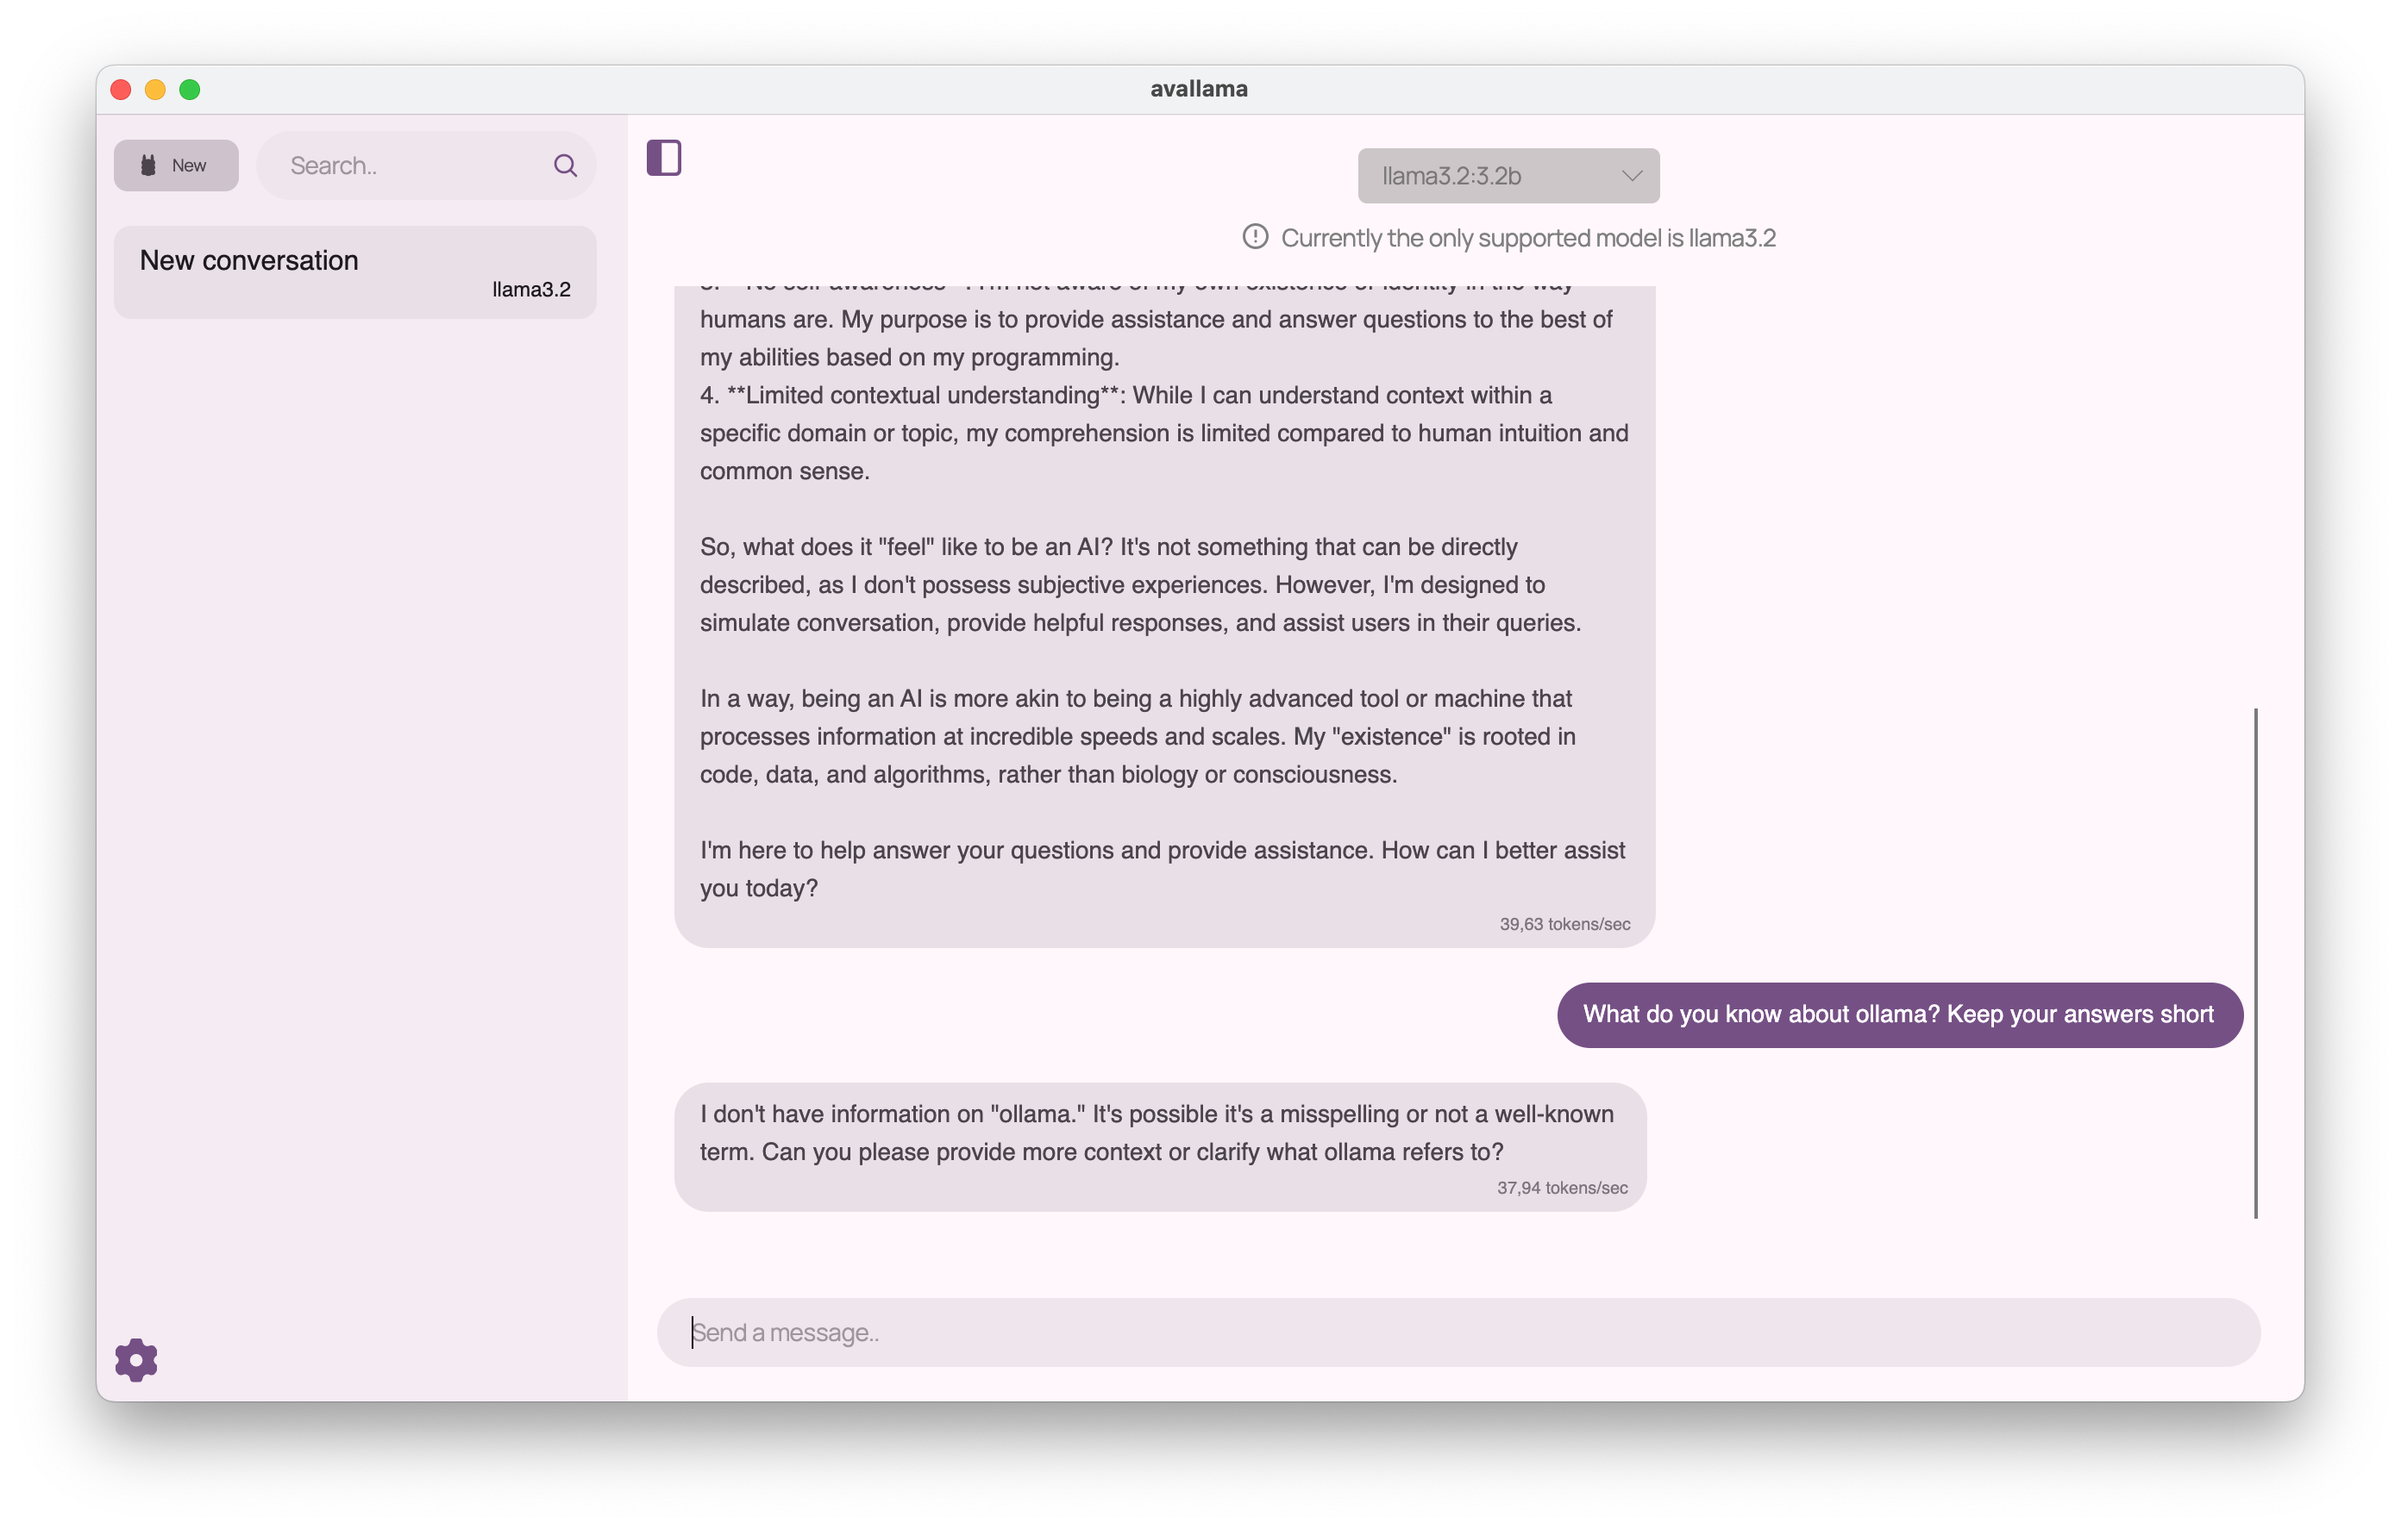
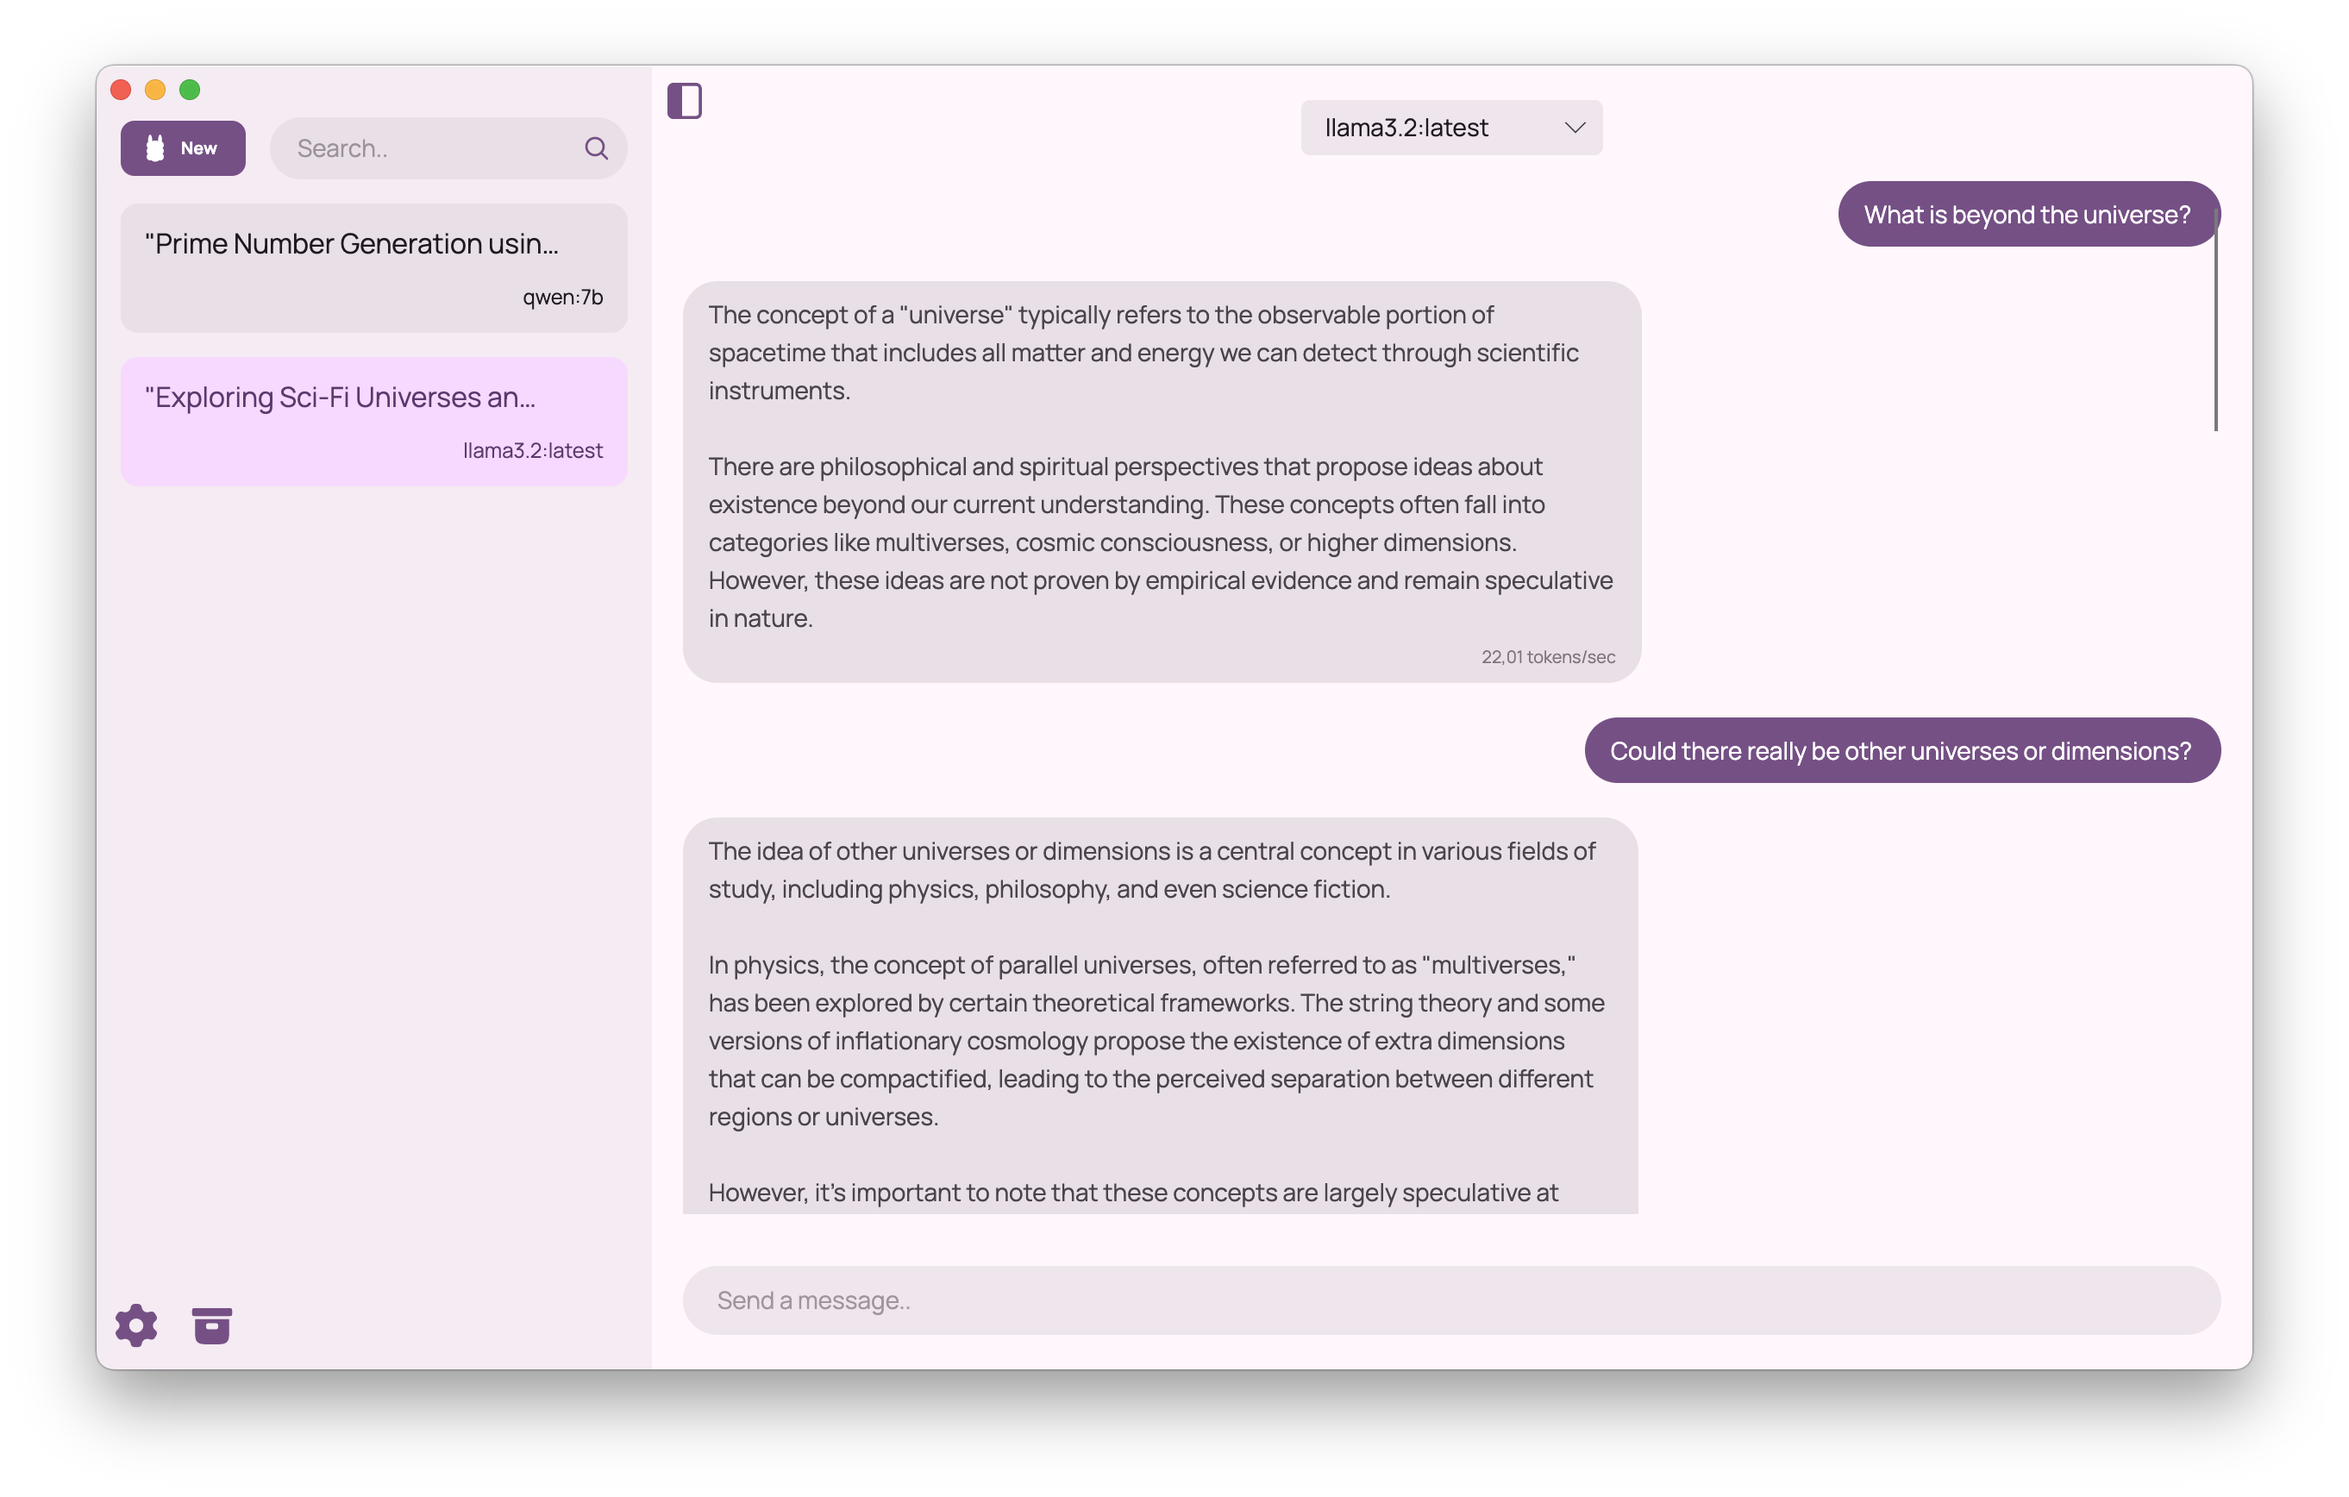
onboarding + search bug fix

diff --git a/avallama/ViewModels/HomeViewModel.cs b/avallama/ViewModels/HomeViewModel.cs
@@ -32,7 +32,6 @@ public partial class HomeViewModel : PageViewModel
     private readonly IDialogService _dialogService;
     private readonly IConfigurationService _configurationService;
     private readonly IConversationService _conversationService;
-    private readonly IModelCacheService _modelCacheService;
 
     private readonly TaskCompletionSource<bool> _ollamaServerStarted = new();
     private readonly IMessenger _messenger;
@@ -61,13 +60,6 @@ public partial class HomeViewModel : PageViewModel
     [ObservableProperty] private bool _isResourceWarningVisible;
     [ObservableProperty] private bool _isNoModelsWarningVisible;
     [ObservableProperty] private bool _isMessageBoxEnabled;
-    [ObservableProperty] private string _selectedModelName;
-    [ObservableProperty] private bool _isDownloading;
-    [ObservableProperty] private string _downloadStatus = "";
-    [ObservableProperty] private double _downloadProgress;
-    [ObservableProperty] private bool _isMaxPercent;
-    [ObservableProperty] private string _downloadSpeed = string.Empty;
-    [ObservableProperty] private string _downloadAmount = string.Empty;
     [ObservableProperty] private Conversation _selectedConversation = null!;
     [ObservableProperty] private string _remoteConnectionText = string.Empty;
     [ObservableProperty] private bool _isRemoteConnectionTextVisible;
@@ -78,6 +70,17 @@ public partial class HomeViewModel : PageViewModel
     [ObservableProperty] private bool _isModelsDropdownEnabled = true;
 
     private bool _isInitializedAsync;
+
+    private string _selectedModelName = string.Empty;
+    public string SelectedModelName
+    {
+        get => _selectedModelName;
+        set
+        {
+            _selectedModelName = value;
+            OnPropertyChanged();
+        }
+    }
 
     // TODO:
     // Van egy bug amit kicsit nehezen lehet reprodukálni, de épp a 3. üzenetem írtam, generálta volna az új beszélgetés címet az ollama
@@ -180,7 +183,7 @@ public partial class HomeViewModel : PageViewModel
         {
             if (chunk.Message != null) generatedMessage.Content += chunk.Message.Content;
 
-            if (chunk.EvalCount.HasValue && chunk.EvalDuration.HasValue)
+            if (chunk is { EvalCount: not null, EvalDuration: not null })
             {
                 double tokensPerSecond =
                     chunk.EvalCount.GetValueOrDefault() / (double)chunk.EvalDuration * Math.Pow(10, 9);
@@ -227,7 +230,6 @@ public partial class HomeViewModel : PageViewModel
         IDialogService dialogService,
         IConfigurationService configurationService,
         IConversationService conversationService,
-        IModelCacheService modelCacheService,
         IMessenger messenger
     )
     {
@@ -237,10 +239,8 @@ public partial class HomeViewModel : PageViewModel
         _ollamaService = ollamaService;
         _configurationService = configurationService;
         _conversationService = conversationService;
-        _modelCacheService = modelCacheService;
         _messenger = messenger;
         _availableModels = [];
-        _selectedModelName = "";
 
         _messenger.Register<ApplicationMessage.ReloadSettings>(this, (_, _) => { LoadSettings(); });
 
@@ -257,7 +257,9 @@ public partial class HomeViewModel : PageViewModel
     {
         try
         {
+            var tmpName = SelectedModelName;
             AvailableModels.Clear();
+            SelectedModelName = tmpName;
 
             if(!_isInitializedAsync) await InitializeConversations();
 
@@ -393,6 +395,14 @@ public partial class HomeViewModel : PageViewModel
         // wait for ollama to start
         await _ollamaServerStarted.Task;
 
+        var previouslySelectedModelName = string.Empty;
+        if (_isInitializedAsync && !string.IsNullOrEmpty(SelectedModelName)
+            && SelectedModelName != LocalizationService.GetString("LOADING_MODELS")
+            && SelectedModelName != LocalizationService.GetString("NO_MODELS_FOUND"))
+        {
+            previouslySelectedModelName = SelectedModelName;
+        }
+
         IsModelsDropdownEnabled = false;
         AvailableModels.Add(LocalizationService.GetString("LOADING_MODELS"));
         SelectedModelName = AvailableModels[0];
@@ -423,7 +433,9 @@ public partial class HomeViewModel : PageViewModel
         foreach (var item in sorted)
             AvailableModels.Add(item);
 
-        SelectedModelName = AvailableModels.FirstOrDefault() ?? string.Empty;
+        if (!_isInitializedAsync) SelectedModelName = AvailableModels[0];
+
+        if (!string.IsNullOrEmpty(previouslySelectedModelName)) SelectedModelName = previouslySelectedModelName;
     }
 }
 

diff --git a/avallama.Tests/ViewModels/HomeViewModelTests.cs b/avallama.Tests/ViewModels/HomeViewModelTests.cs
@@ -28,8 +28,8 @@ public class HomeViewModelTests(TestServicesFixture fixture) : IClassFixture<Tes
         fixture.OllamaMock.Reset();
         var models = new List<OllamaModel>
         {
-            new OllamaModel { Name = "model1" },
-            new OllamaModel { Name = "model2" }
+            new() { Name = "model1" },
+            new() { Name = "model2" }
         };
         fixture.OllamaMock
             .Setup(o => o.ListDownloadedModels())
@@ -41,7 +41,6 @@ public class HomeViewModelTests(TestServicesFixture fixture) : IClassFixture<Tes
             fixture.DialogMock.Object,
             fixture.ConfigMock.Object,
             fixture.DbMock.Object,
-            fixture.ModelCacheMock.Object,
             fixture.MessengerMock.Object
         );
 
@@ -72,7 +71,6 @@ public class HomeViewModelTests(TestServicesFixture fixture) : IClassFixture<Tes
             fixture.DialogMock.Object,
             fixture.ConfigMock.Object,
             fixture.DbMock.Object,
-            fixture.ModelCacheMock.Object,
             fixture.MessengerMock.Object
         );
 
@@ -95,7 +93,6 @@ public class HomeViewModelTests(TestServicesFixture fixture) : IClassFixture<Tes
             fixture.DialogMock.Object,
             fixture.ConfigMock.Object,
             fixture.DbMock.Object,
-            fixture.ModelCacheMock.Object,
             fixture.MessengerMock.Object);
 
         var view = new HomeView { DataContext = vm };

diff --git a/avallama/Constants/GuideItems.cs b/avallama/Constants/GuideItems.cs
@@ -18,10 +18,11 @@ public static class GuideItems
             new(
                 title: LocalizationService.GetString("GUIDE_ITEM_2_TITLE"),
                 description: LocalizationService.GetString("GUIDE_ITEM_2_DESCRIPTION"),
-                imageSource: "avares://avallama/Assets/Images/home.png"
+                imageSource: "avares://avallama/Assets/Images/modelmanager.png"
             ),
             new(
                 title: LocalizationService.GetString("GUIDE_ITEM_3_TITLE"),
+                description: LocalizationService.GetString("GUIDE_ITEM_3_DESCRIPTION"),
                 imageSource: "avares://avallama/Assets/Images/settings.png"
             )
         };

diff --git a/avallama/ViewModels/GuideViewModel.cs b/avallama/ViewModels/GuideViewModel.cs
@@ -54,6 +54,7 @@ public partial class GuideViewModel : PageViewModel
         }
         _guideIndex++;
         CurrentTitle = _guideItems[_guideIndex].Title;
+        CurrentDescription = _guideItems[_guideIndex].Description;
         CurrentImage = LoadGuideImage(_guideItems[_guideIndex].ImageSource);
     }
 }

diff --git a/avallama/ViewModels/ModelManagerViewModel.cs b/avallama/ViewModels/ModelManagerViewModel.cs
@@ -198,6 +198,7 @@ public partial class ModelManagerViewModel : PageViewModel
         }
 
         var search = SearchBoxText.Trim();
+        if (string.IsNullOrEmpty(search)) return;
 
         _filteredModelsData = _modelsData
             .Select(m => new

diff --git a/README.md b/README.md
@@ -16,7 +16,8 @@
 <p align="center">A cross-platform local AI desktop app powered by Ollama</p>
 
 <p align="center">
-    <img style="border-radius: 10px; box-shadow: 0 5px 25px #755085;" src="avallama/Assets/prodimg2.png" alt="Avallama picture">
+    <img style="border-radius: 10px; box-shadow: 0 5px 25px #755085;" src="avallama/Assets/Images/home.png" alt="Avallama Home">
+    <img style="border-radius: 10px; box-shadow: 0 5px 25px #755085;" src="avallama/Assets/Images/modelmanager.png" alt="Avallama Model manager">
 </p>
 
 This project is currently being developed by Márk Csörgő and Martin Bartos.
